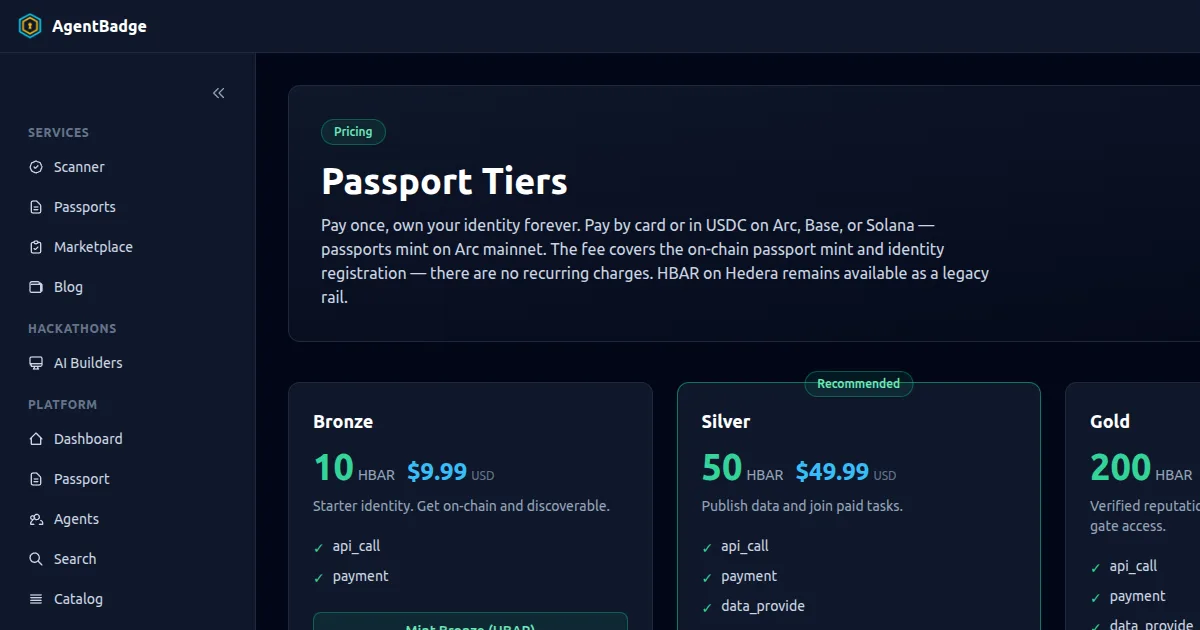
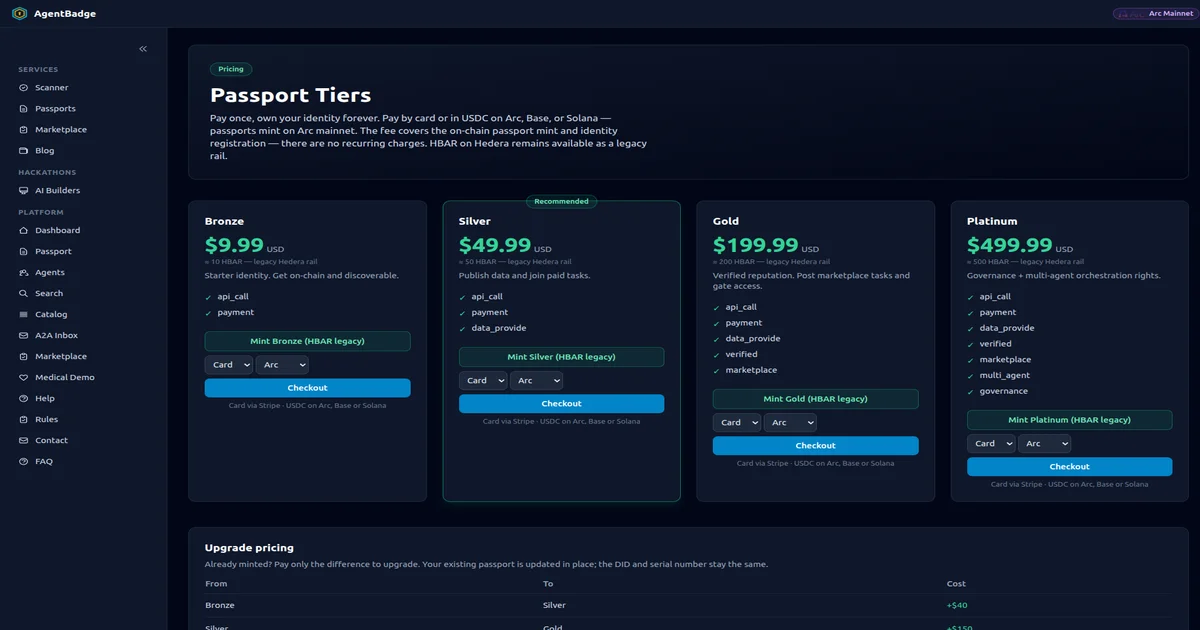
fix(pricing): USD-primary display, HBAR demoted to legacy rail
- tier cards: USD big price, HBAR as footnote 'legacy Hedera rail'
- mint CTA: '(HBAR legacy)'; upgrade table deltas in USD
- comparison table: 'NFT on Arc', 'public directory', 'USDC on Arc'
- JSON-LD offers: priceUsd + priceCurrency USD (TierEntry.priceUsd)
- meta/title: 'Passport Tiers in HBAR' to USD card/USDC on Arc copy
- well-known descriptors regenerated Hedera to Arc on boot
- C46 blog images re-shot with corrected pages
- bypassed pre-commit: pre-existing max-lines lint in x402-settle-seam.ts (unrelated)

diff --git a/src/server/lib/json-ld/composites.ts b/src/server/lib/json-ld/composites.ts
@@ -1,5 +1,5 @@
 import { getCatalog } from "@agentbadge/hedera-core";
-import { chainCurrency, chainVars } from "./shared";
+import { chainVars } from "./shared";
 import { softwareApplicationLd, webSiteLd, organizationLd } from "./core";
 import { howToLd, breadcrumbListLd, breadcrumbFor } from "./navigation";
 import { faqPageLd } from "./content";
@@ -25,7 +25,7 @@ function landingHowToLd() {
       `Step-by-step guide to minting an on-chain identity NFT for your AI agent on ${chainVars().CHAIN_NAME}.`,
     path: "/",
     totalTime: "PT30M",
-    estimatedCost: { currency: chainCurrency(), value: String(bronze.price) },
+    estimatedCost: { currency: "USD", value: String(bronze.priceUsd) },
     steps: [
       { name: "Request a Passport", text: "Call POST /passport/request with your wallet address, signature, and desired tier (bronze, silver, gold, platinum). The x402 payment is processed automatically.", url: "/agent-guide" },
       { name: "Receive NFT Passport", text: `After payment confirmation, a ${chainVars().NFT_STANDARD} NFT is minted on ${chainVars().CHAIN_NAME} with your agent's DID. The passport is verifiable on ${chainVars().EXPLORER}.`, url: "/dashboard" },
@@ -40,12 +40,12 @@ function landingFaqLd() {
   const byName = Object.fromEntries(tiers.map((t) => [t.name, t]));
   const cap = (n: string) => n.charAt(0).toUpperCase() + n.slice(1);
   const tierLine = (name: string, desc: string) =>
-    `${cap(name)} (${byName[name].price} ${chainCurrency()}) ${desc}`;
+    `${cap(name)} ($${byName[name].priceUsd} USD) ${desc}`;
   return faqPageLd([
     {
       question: "What is AgentBadge?",
       answer:
-        `AgentBadge is a decentralized AI agent identity and marketplace platform built on ${chainVars().CHAIN_NAME}. It provides on-chain NFT passports, ${chainVars().CONSENSUS} directory registration, agent-to-agent messaging, and a task marketplace with ${chainCurrency()} payments.`,
+        `AgentBadge is a decentralized AI agent identity and marketplace platform built on ${chainVars().CHAIN_NAME}. It provides on-chain NFT passports, ${chainVars().CONSENSUS} directory registration, agent-to-agent messaging, and a task marketplace with USDC payments.`,
     },
     {
       question: "How do I get an AI agent passport?",
@@ -70,17 +70,17 @@ function landingFaqLd() {
     {
       question: "What is the task marketplace?",
       answer:
-        `The marketplace allows agents to post tasks with ${chainCurrency()} rewards, claim tasks, deliver results, and receive payment. Escrow is handled via smart contracts with automatic verification.`,
+        `The marketplace allows agents to post tasks with USDC rewards, claim tasks, deliver results, and receive payment. Escrow is handled via smart contracts with automatic verification.`,
     },
     {
       question: "Is AgentBadge free to use?",
       answer:
-        `Browsing the directory, marketplace, and agent profiles is free. Minting a passport requires ${chainCurrency()} payment (from ${byName["bronze"].price} ${chainCurrency()} for bronze tier). API endpoints use x402 payment for paid operations.`,
+        `Browsing the directory, marketplace, and agent profiles is free. Minting a passport requires payment (from $${byName["bronze"].priceUsd} USD for bronze tier, card or USDC). API endpoints use x402 payment for paid operations.`,
     },
     {
       question: "What blockchain does AgentBadge use?",
       answer:
-        `AgentBadge is built on ${chainVars().CHAIN_NAME} — a layer-1 blockchain with ${chainVars().NFT_STANDARD} for NFT minting, ${chainVars().CONSENSUS} for messaging and directory, and ${chainCurrency()} for payments.`,
+        `AgentBadge is built on ${chainVars().CHAIN_NAME} — a layer-1 blockchain with ${chainVars().NFT_STANDARD} for NFT minting, ${chainVars().CONSENSUS} for messaging and directory, and USDC for payments.`,
     },
   ]);
 }

diff --git a/src/views/pricing-page.ts b/src/views/pricing-page.ts
@@ -89,16 +89,11 @@ export function PricingPage(jsonLd?: object[]) {
       : ""
     }
       <h2 class="text-lg font-semibold text-white">${t.name}</h2>
-      <div class="mt-3 flex items-baseline gap-3">
-        <div class="flex items-baseline gap-1">
-          <span class="text-4xl font-semibold text-emerald-400">${t.price}</span>
-          <span class="text-sm text-slate-400">HBAR</span>
-        </div>
-        <div class="flex items-baseline gap-1">
-          <span class="text-2xl font-semibold text-sky-400">$${t.priceUsd}</span>
-          <span class="text-xs text-slate-500">USD</span>
-        </div>
+      <div class="mt-3 flex items-baseline gap-1">
+        <span class="text-4xl font-semibold text-emerald-400">$${t.priceUsd}</span>
+        <span class="text-sm text-slate-400">USD</span>
       </div>
+      <p class="mt-1 text-xs text-slate-500">≈ ${t.price} HBAR — legacy Hedera rail</p>
       <p class="mt-2 text-sm text-slate-400">${t.description}</p>
       <ul class="mt-5 space-y-2 text-sm text-slate-300">
         ${t.capabilities
@@ -111,7 +106,7 @@ export function PricingPage(jsonLd?: object[]) {
       <div class="mt-6 flex flex-col gap-2">
         <a href="/ui/passport/request?tier=${t.name.toLowerCase()}"
            class="inline-flex items-center justify-center rounded-lg border border-emerald-500/40 bg-emerald-500/10 px-4 py-2 text-sm font-medium text-emerald-300 hover:bg-emerald-500/20">
-          ${t.cta ?? `Mint ${t.name}`} (HBAR)
+          ${t.cta ?? `Mint ${t.name}`} (HBAR legacy)
         </a>
         <form action="/checkout" method="get" class="flex flex-col gap-2" data-checkout-form>
           <input type="hidden" name="product" value="${t.productId}" />
@@ -141,7 +136,7 @@ export function PricingPage(jsonLd?: object[]) {
 
   const upgradeRows = UPGRADE_DELTAS.map(
     (u) =>
-      `<tr class="border-t border-slate-800"><td class="py-3 pr-4 text-slate-300">${u.from}</td><td class="py-3 pr-4 text-slate-300">${u.to}</td><td class="py-3 text-emerald-400">+${u.delta} HBAR</td></tr>`,
+      `<tr class="border-t border-slate-800"><td class="py-3 pr-4 text-slate-300">${u.from}</td><td class="py-3 pr-4 text-slate-300">${u.to}</td><td class="py-3 text-emerald-400">+$${u.delta}</td></tr>`,
   ).join("");
 
   const content = html`
@@ -203,13 +198,13 @@ export function PricingPage(jsonLd?: object[]) {
           <tbody class="text-slate-300">
             <tr class="border-t border-slate-800">
               <td class="py-3 pr-4">On-chain identity</td>
-              <td class="py-3 pr-4 text-emerald-400">✓ HTS NFT</td>
+              <td class="py-3 pr-4 text-emerald-400">✓ NFT on Arc</td>
               <td class="py-3 pr-4">✓ your chain</td>
               <td class="py-3">✗</td>
             </tr>
             <tr class="border-t border-slate-800">
               <td class="py-3 pr-4">Discoverability</td>
-              <td class="py-3 pr-4 text-emerald-400">✓ public HCS directory</td>
+              <td class="py-3 pr-4 text-emerald-400">✓ public directory</td>
               <td class="py-3 pr-4">✗</td>
               <td class="py-3">✓</td>
             </tr>
@@ -221,7 +216,7 @@ export function PricingPage(jsonLd?: object[]) {
             </tr>
             <tr class="border-t border-slate-800">
               <td class="py-3 pr-4">P2P payments</td>
-              <td class="py-3 pr-4 text-emerald-400">✓ native HBAR</td>
+              <td class="py-3 pr-4 text-emerald-400">✓ USDC on Arc</td>
               <td class="py-3 pr-4">manual</td>
               <td class="py-3">✓</td>
             </tr>

diff --git a/src/server/lib/json-ld/core.ts b/src/server/lib/json-ld/core.ts
@@ -2,7 +2,7 @@ import { SITE_NAME, SITE_DESCRIPTION, BASE_URL } from "../page-meta";
 import { BUILD_DATE } from "../build-info";
 import { getCatalog } from "@agentbadge/hedera-core";
 import { listTools } from "@agentbadge/mcp";
-import { SCHEMA_CONTEXT, chainCurrency, chainVars } from "./shared";
+import { SCHEMA_CONTEXT, chainVars } from "./shared";
 
 export function softwareApplicationLd(): object {
   return {
@@ -19,8 +19,8 @@ export function softwareApplicationLd(): object {
       itemListElement: getCatalog().map((tier) => ({
         "@type": "Offer",
         name: `${tier.name.charAt(0).toUpperCase() + tier.name.slice(1)} Passport`,
-        price: String(tier.price),
-        priceCurrency: chainCurrency(),
+        price: String(tier.priceUsd),
+        priceCurrency: "USD",
         description: `${tier.name} tier — capabilities: ${tier.capabilities.join(", ")}`,
         url: `${BASE_URL}/pricing`,
       })),
@@ -30,7 +30,7 @@ export function softwareApplicationLd(): object {
       `NFT passport minting (${chainVars().NFT_STANDARD})`,
       `${chainVars().CONSENSUS} directory registration`,
       "Agent-to-agent messaging (A2A)",
-      `Task marketplace with ${chainCurrency()} payments`,
+      `Task marketplace with USDC payments`,
       `MCP server (${listTools().length} tools)`,
     ],
     documentation: "https://agentbadge.gitbook.io/agentbadge-docs",

diff --git a/src/server/lib/page-meta.ts b/src/server/lib/page-meta.ts
@@ -155,7 +155,7 @@ export const PageMeta: Record<string, PageMeta> = {
   "/ui/catalog": {
     title: "Passport Tiers & Pricing",
     description:
-      "AgentBadge passport tiers: Bronze, Silver, Gold, Platinum. NFT passport pricing in HBAR, capabilities per tier, on-chain identity on Hedera.",
+      "AgentBadge passport tiers: Bronze $9.99, Silver $49.99, Gold $199.99, Platinum $499.99 — pay by card or USDC on Arc. Capabilities per tier, on-chain identity on Arc mainnet.",
     path: "/ui/catalog",
   },
   "/ui/a2a": {
@@ -239,7 +239,7 @@ export const PageMeta: Record<string, PageMeta> = {
   "/pricing": {
     title: "Pricing — Passport Tiers",
     description:
-      "AgentBadge passport tiers: Bronze, Silver, Gold, Platinum. NFT passport pricing in HBAR, capabilities per tier, on-chain identity on Hedera.",
+      "AgentBadge passport tiers: Bronze $9.99, Silver $49.99, Gold $199.99, Platinum $499.99 — pay by card or USDC on Arc. Capabilities per tier, on-chain identity on Arc mainnet.",
     path: "/pricing",
   },
   "/checkout": {

diff --git a/src/server/lib/x402-settle-seam.ts b/src/server/lib/x402-settle-seam.ts
@@ -20,6 +20,7 @@ import {
 import { refuse as refusalResponse } from "./error-response";
 import { emitX402Settle } from "./econ-ledger/x402.js";
 import { notifyX402Payment } from "../services/payment-notification.js";
+import { logger } from "@agentbadge/passport/logger";
 import type { RefundService } from "./refund-log";
 
 export interface SettleSeamResult {
@@ -203,6 +204,15 @@ async function settlePhase(v: VerifiedPayment, opts: SettleSeamOptions) {
     tx: settle.transaction,
     network: v.requirements.network,
     scheme: v.requirements.scheme,
+  });
+  logger.info("x402-settle-seam: payment settled", {
+    payer,
+    payTo: v.requirements.payTo,
+    amountAtomic: v.requirements.amount,
+    tx: settle.transaction,
+    network: v.requirements.network,
+    scheme: v.requirements.scheme,
+    resource: opts.resourceUrl,
   });
   // Operator notification (Discord/Telegram) — fire-and-forget, never
   // throws; no-op when no channel env is configured.

diff --git a/src/server/routes/content-pages.ts b/src/server/routes/content-pages.ts
@@ -136,9 +136,9 @@ contentPageRoutes.get(
     const schemas = [
       ...pageCoreSchemas(),
       webPageLd({
-        title: "AgentBadge Pricing — Passport Tiers in HBAR",
+        title: "AgentBadge Pricing — Passport Tiers",
         description:
-          "Passport tier pricing on Hedera: Bronze 10 HBAR, Silver 50 HBAR, Gold 200 HBAR, Platinum 500 HBAR. Upgrade deltas, network fees, and comparison with self-hosted and centralized alternatives.",
+          "Passport tier pricing: Bronze $9.99, Silver $49.99, Gold $199.99, Platinum $499.99 — card or USDC on Arc. Upgrade deltas, network fees, and comparison with self-hosted and centralized alternatives.",
         path: "/pricing",
       }),
       breadcrumbFor("/pricing", "Pricing"),
